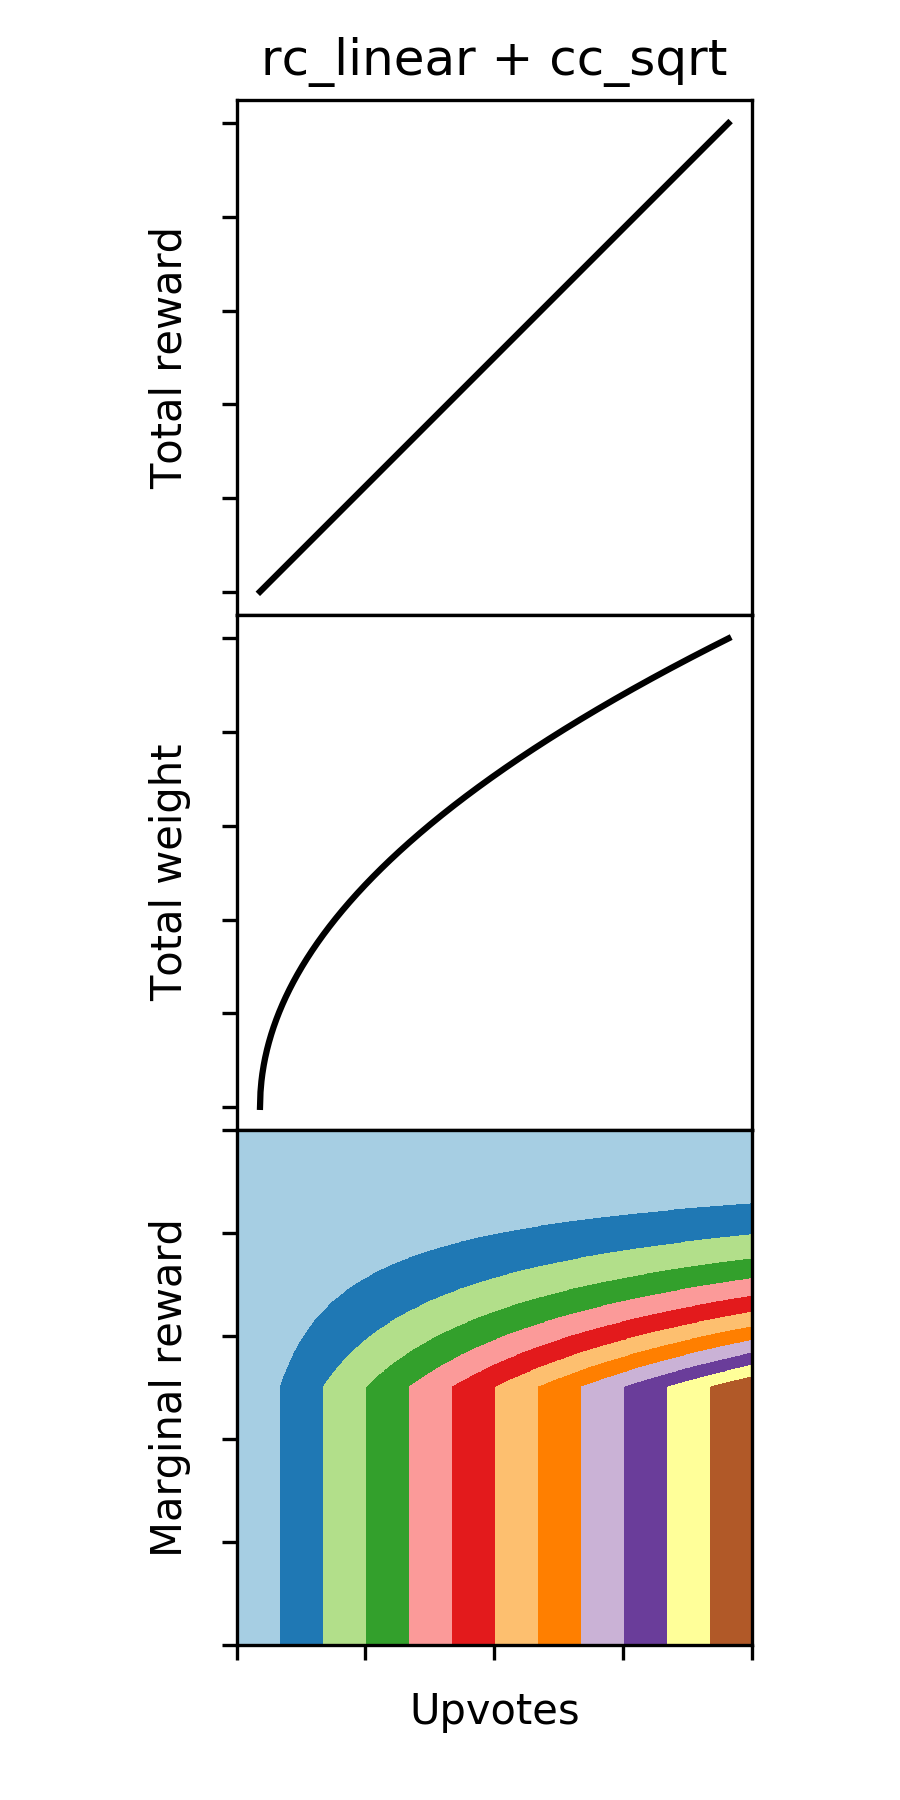
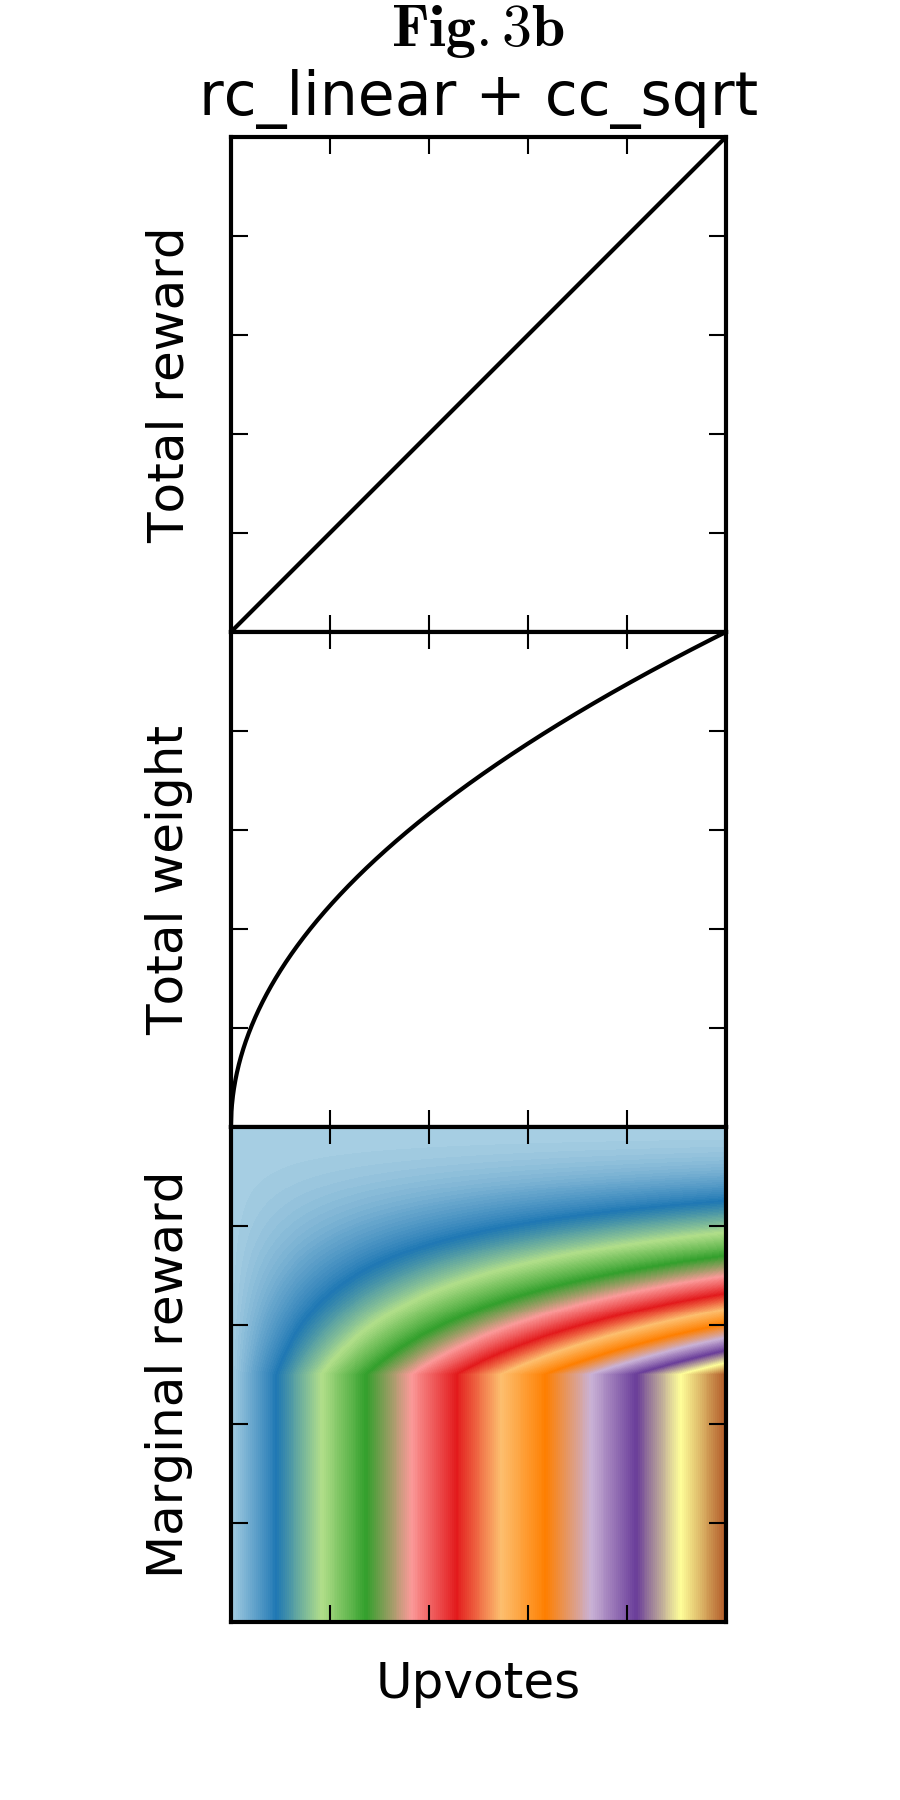
Added figure numbers to the graphs.

diff --git a/smt-manual/pie.py b/smt-manual/pie.py
@@ -184,6 +184,9 @@ weight_curves = [
     SqrtCurve(),
     ]
 
+figure_letters = 'fdecab'
+f = 0
+
 for rc in reward_curves:
     for cc in weight_curves:
         rcp = RewardCurvePlotter(
@@ -195,12 +198,12 @@ for rc in reward_curves:
         plt.clf()
         fig = plt.figure(frameon=False)
         plt.subplots(nrows=3, ncols=1, figsize=(3, 6))
-        plt.tight_layout(pad=2)
+        plt.tight_layout(pad=2.25)
 
         ax_rc = plt.subplot(3, 1, 1, adjustable="box-forced")
         ax_rc.set_xticklabels([])
         ax_rc.set_yticklabels([])
-        plt.title("rc_"+rc.name+" + cc_"+cc.name)
+        plt.title("$\mathbf{Fig. 3"+figure_letters[f]+"}$\nrc_"+rc.name+" + cc_"+cc.name, y=1)
         plt.ylabel("Total reward")
         rcp.plot_reward_curve("k,-")
 
@@ -225,3 +228,4 @@ for rc in reward_curves:
         copy_bb_aspect(ax_cc, ax_curation)
 
         plt.savefig("rc-"+rc.name+"-cc-"+cc.name+".png", dpi=300)
+        f += 1
